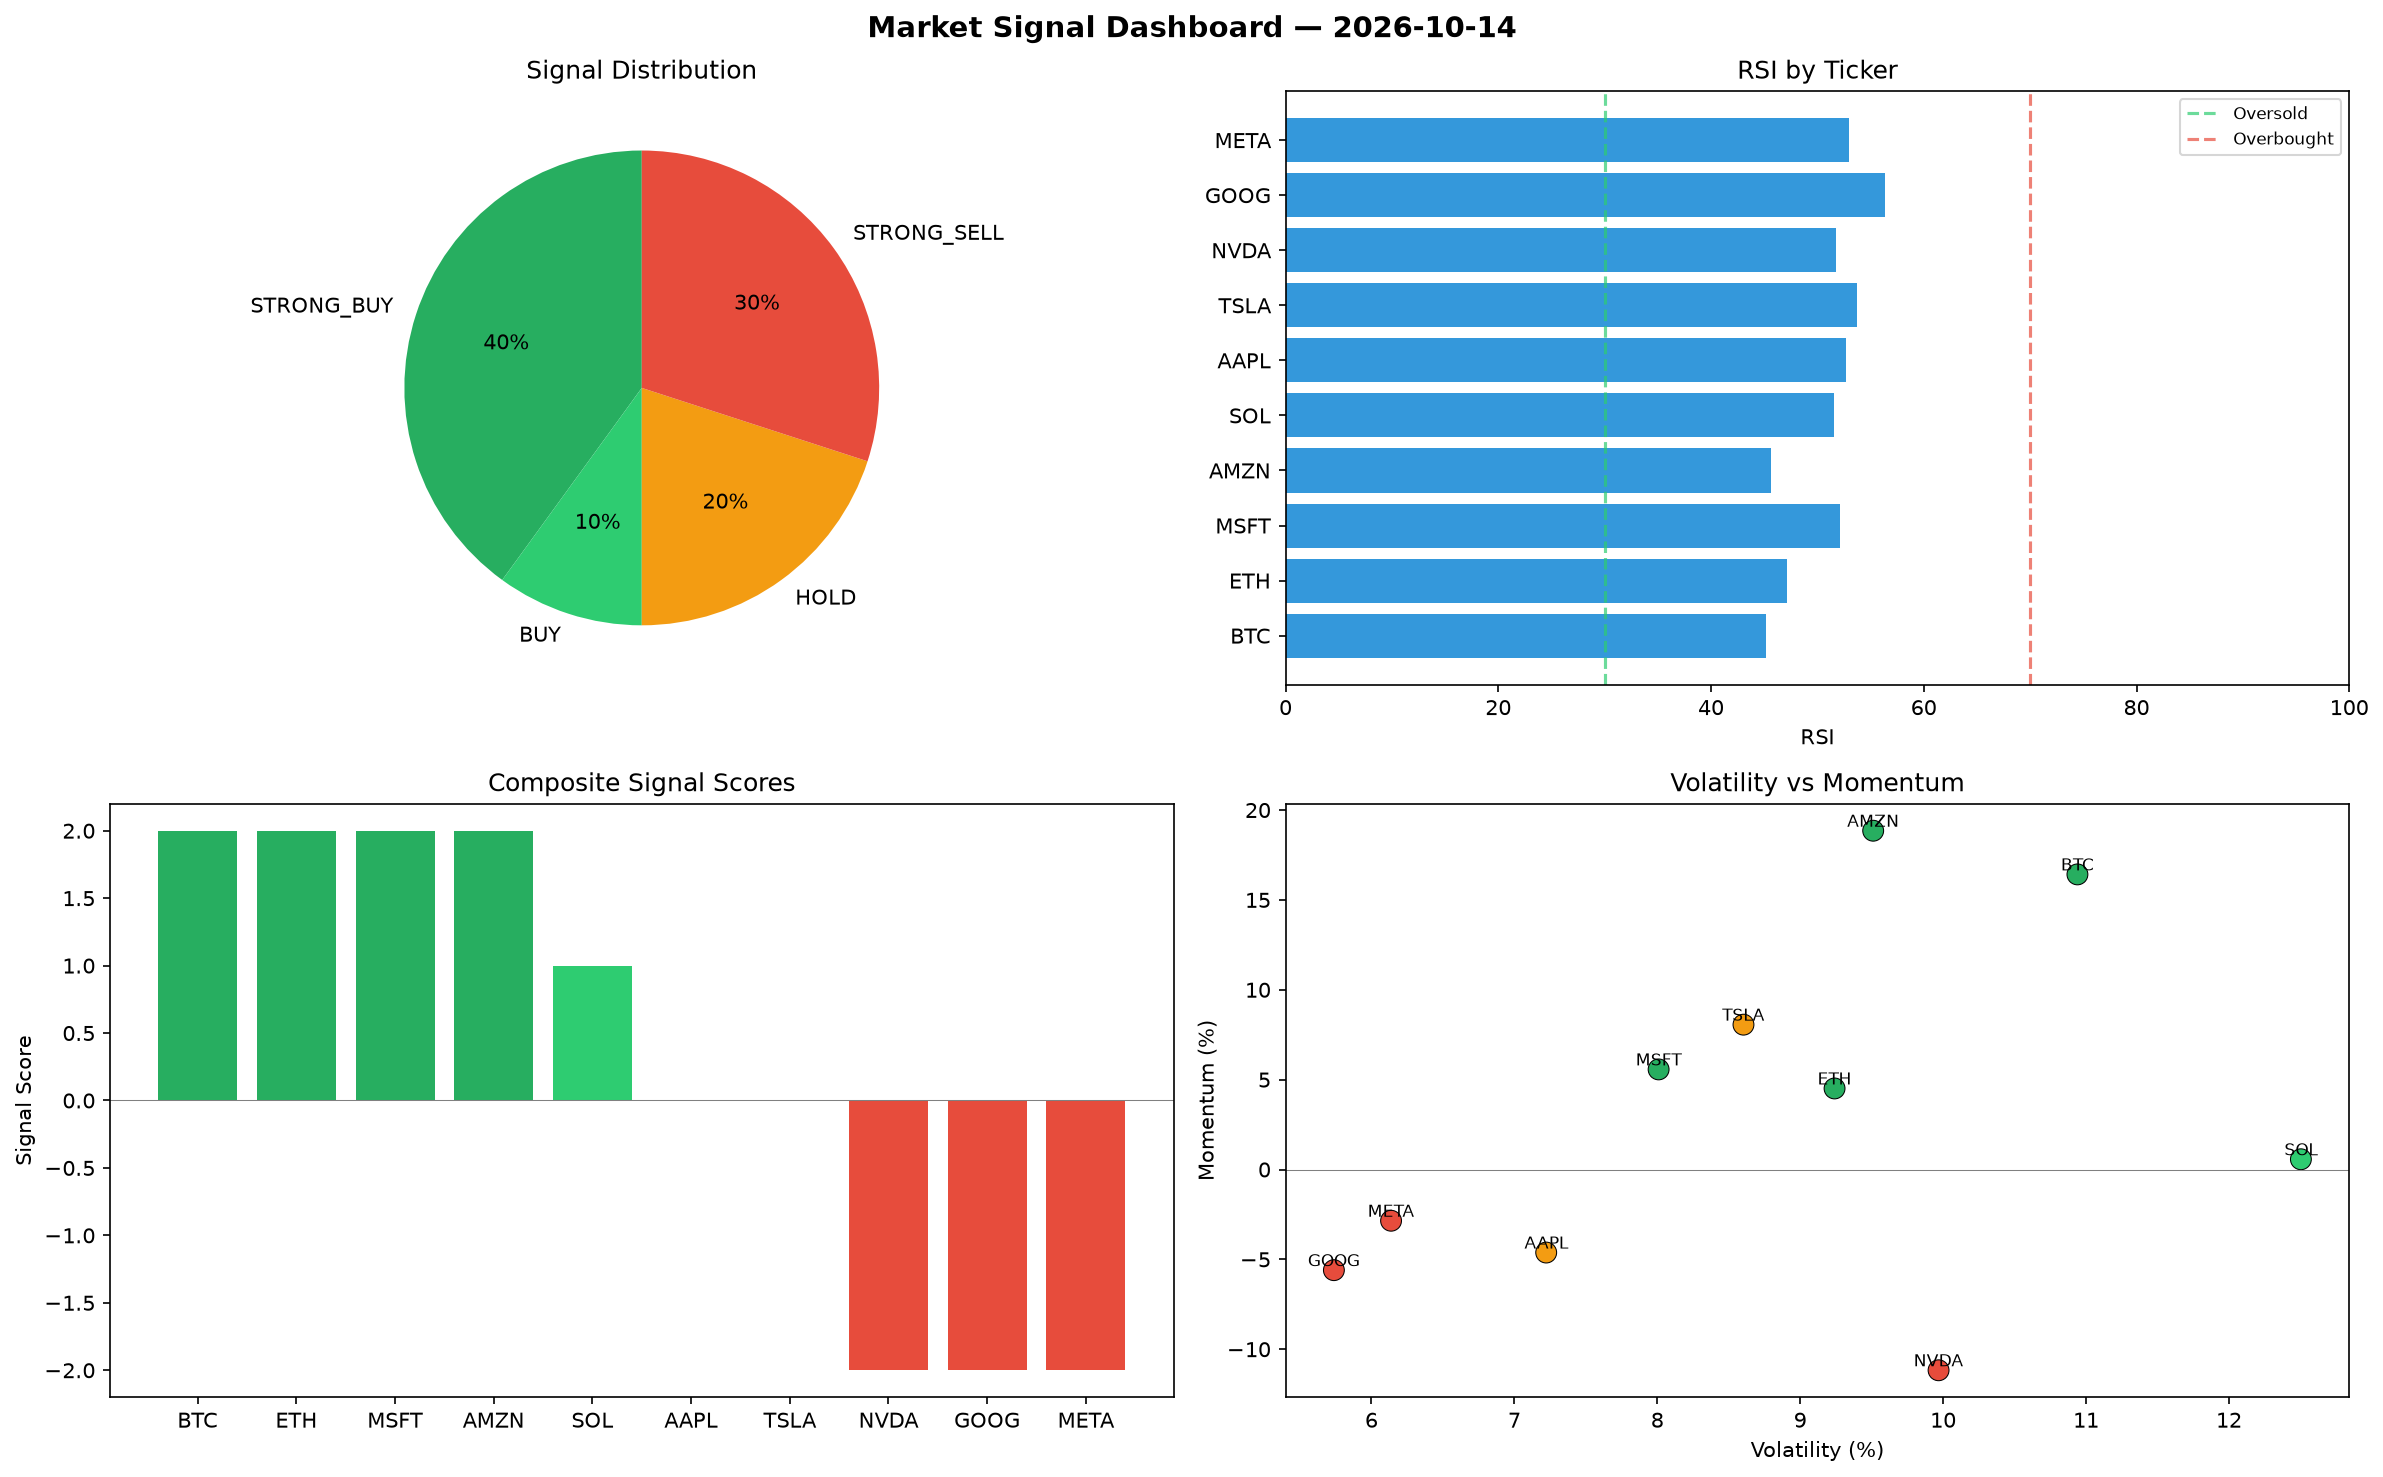
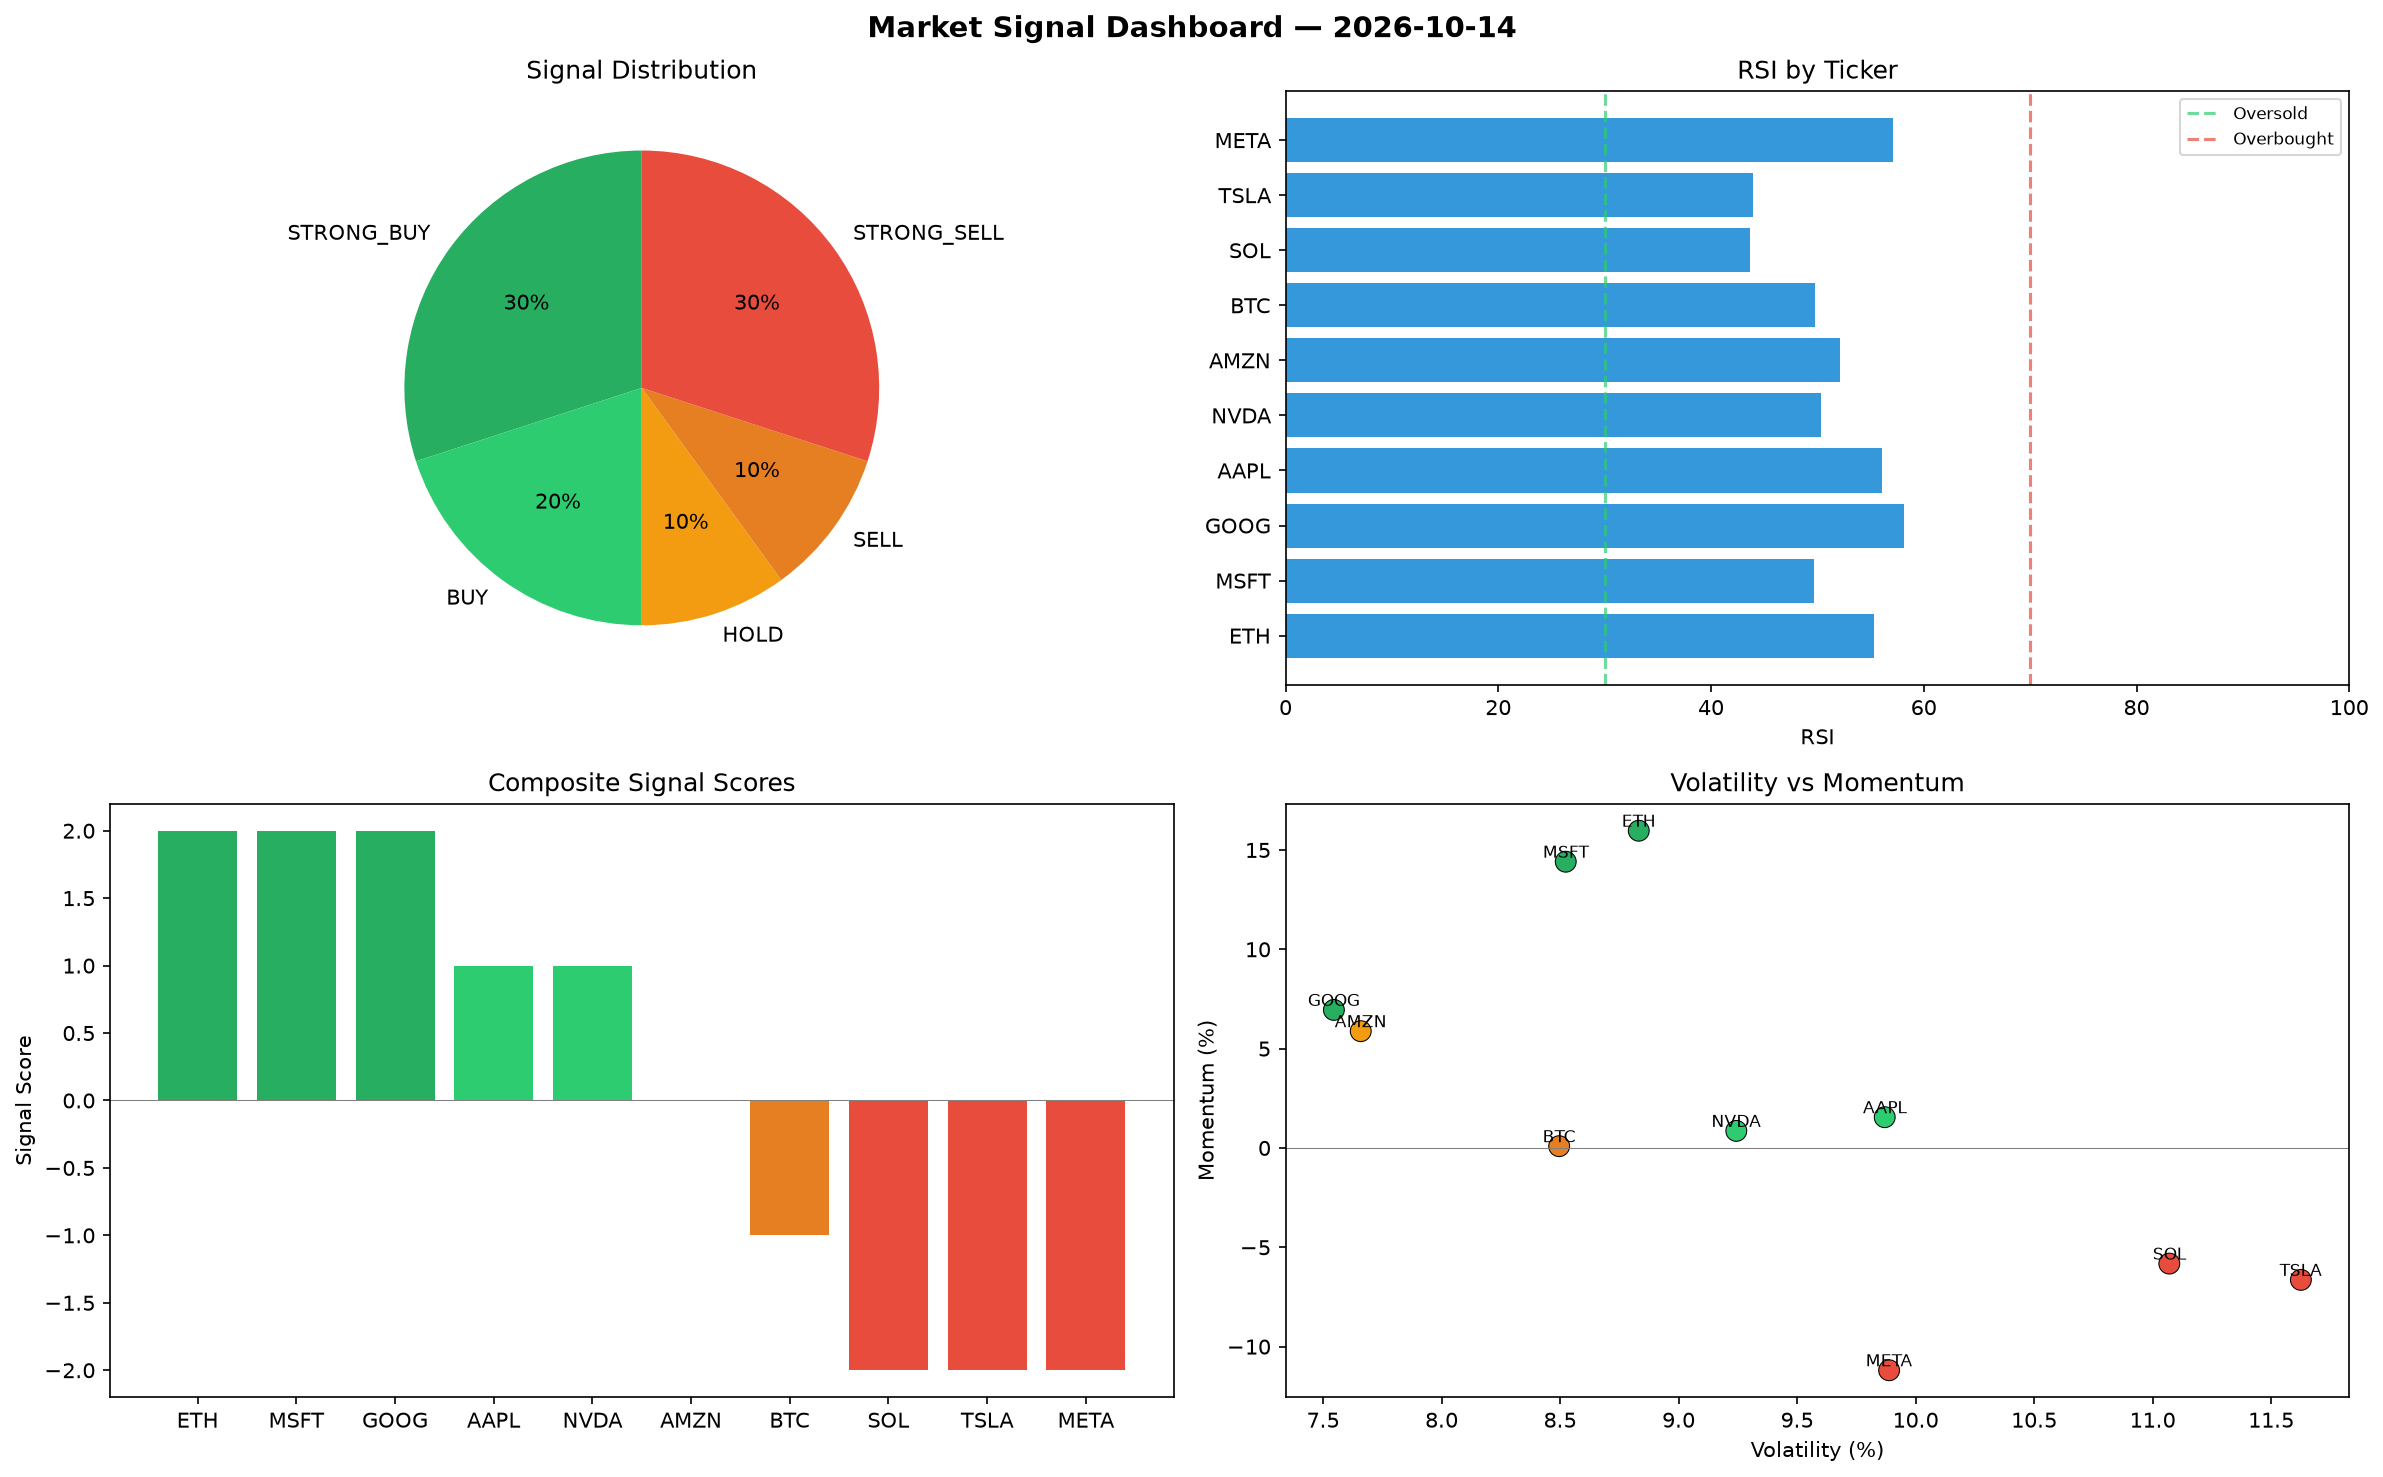
automated-bots: market signals 2026-10-14T18:47

diff --git a/logs/2026-10-14.md b/logs/2026-10-14.md
@@ -1,6 +1,6 @@
 # Market Signal Report — 2026-10-14
 
-**Run ID:** `40d522c338` | **Buy:** 5 | **Sell:** 3 | **Hold:** 2
+**Run ID:** `ffbbcb25c3` | **Buy:** 5 | **Sell:** 4 | **Hold:** 1
 
 ![Dashboard](2026-10-14_dashboard.png)
 
@@ -8,28 +8,28 @@
 
 | Ticker | Price | Signal | Score | RSI | Momentum | Confidence |
 |--------|-------|--------|-------|-----|----------|------------|
-| BTC | $1177.45 | **STRONG_BUY** | 2 | 45.16 | 0.1642 | 0.5 |
-| ETH | $4518.43 | **STRONG_BUY** | 2 | 47.11 | 0.0451 | 0.5 |
-| MSFT | $4965.28 | **STRONG_BUY** | 2 | 52.12 | 0.0557 | 0.5 |
-| AMZN | $2662.23 | **STRONG_BUY** | 2 | 45.66 | 0.1885 | 0.5 |
-| SOL | $3408.58 | **BUY** | 1 | 51.55 | 0.0057 | 0.25 |
-| AAPL | $2829.08 | **HOLD** | 0 | 52.7 | -0.0462 | 0.0 |
-| TSLA | $1454.75 | **HOLD** | 0 | 53.72 | 0.0806 | 0.0 |
-| NVDA | $2825.56 | **STRONG_SELL** | -2 | 51.71 | -0.1117 | 0.5 |
-| GOOG | $78.16 | **STRONG_SELL** | -2 | 56.36 | -0.056 | 0.5 |
-| META | $2465.77 | **STRONG_SELL** | -2 | 52.95 | -0.0285 | 0.5 |
+| ETH | $1395.39 | **STRONG_BUY** | 2 | 55.35 | 0.1597 | 0.5 |
+| MSFT | $774.2 | **STRONG_BUY** | 2 | 49.72 | 0.1441 | 0.5 |
+| GOOG | $4566.34 | **STRONG_BUY** | 2 | 58.14 | 0.0695 | 0.5 |
+| AAPL | $705.37 | **BUY** | 1 | 56.03 | 0.0155 | 0.25 |
+| NVDA | $2875.92 | **BUY** | 1 | 50.3 | 0.0086 | 0.25 |
+| AMZN | $1216.91 | **HOLD** | 0 | 52.17 | 0.0588 | 0.0 |
+| BTC | $1721.59 | **SELL** | -1 | 49.8 | 0.0009 | 0.25 |
+| SOL | $1104.08 | **STRONG_SELL** | -2 | 43.64 | -0.0582 | 0.5 |
+| TSLA | $462.22 | **STRONG_SELL** | -2 | 43.94 | -0.0664 | 0.5 |
+| META | $3763.37 | **STRONG_SELL** | -2 | 57.09 | -0.1119 | 0.5 |
 
 ## Delta vs Yesterday
 
 | Ticker | Today | Yesterday | Price Change | Signal Changed |
 |--------|-------|-----------|-------------|----------------|
-| BTC | STRONG_BUY | STRONG_BUY | 📉 -56.4% | — |
-| ETH | STRONG_BUY | STRONG_BUY | 📈 21.27% | — |
-| MSFT | STRONG_BUY | HOLD | 📈 10.24% | ⚠ YES |
-| AMZN | STRONG_BUY | STRONG_BUY | 📉 -45.62% | — |
-| SOL | BUY | STRONG_BUY | 📈 12.13% | ⚠ YES |
-| AAPL | HOLD | STRONG_SELL | 📈 432.08% | ⚠ YES |
-| TSLA | HOLD | HOLD | 📉 -71.18% | — |
-| NVDA | STRONG_SELL | STRONG_BUY | 📉 -22.29% | ⚠ YES |
-| GOOG | STRONG_SELL | STRONG_BUY | 📉 -98.19% | ⚠ YES |
-| META | STRONG_SELL | BUY | 📉 -17.25% | ⚠ YES |
+| ETH | STRONG_BUY | STRONG_BUY | 📉 -62.55% | — |
+| MSFT | STRONG_BUY | HOLD | 📉 -82.81% | ⚠ YES |
+| GOOG | STRONG_BUY | STRONG_BUY | 📈 5.7% | — |
+| AAPL | BUY | STRONG_SELL | 📈 32.66% | ⚠ YES |
+| NVDA | BUY | STRONG_BUY | 📉 -20.91% | ⚠ YES |
+| AMZN | HOLD | STRONG_BUY | 📉 -75.14% | ⚠ YES |
+| BTC | SELL | STRONG_BUY | 📉 -36.25% | ⚠ YES |
+| SOL | STRONG_SELL | STRONG_BUY | 📉 -63.68% | ⚠ YES |
+| TSLA | STRONG_SELL | HOLD | 📉 -90.84% | ⚠ YES |
+| META | STRONG_SELL | BUY | 📈 26.3% | ⚠ YES |
